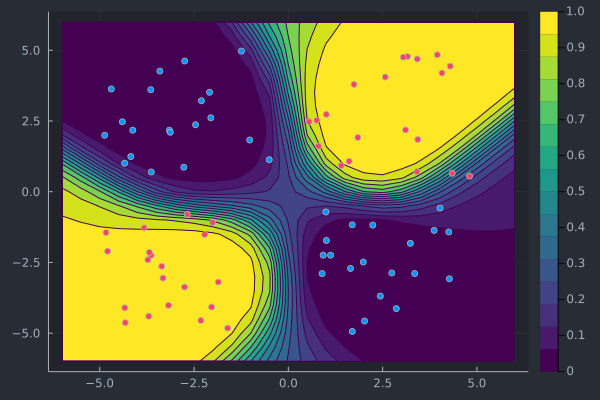
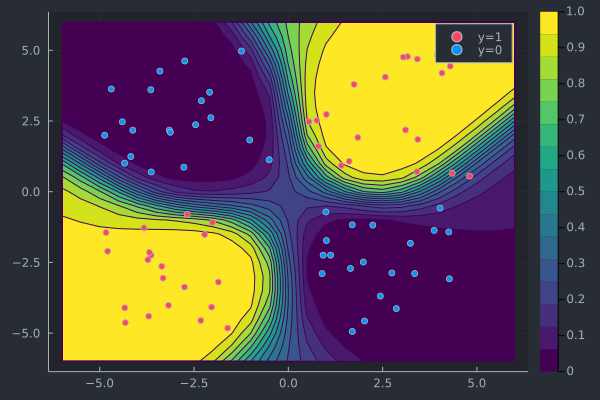
polished the models tutorial

Changed region(s): [[0.72, 0.06, 0.87, 0.18]]

diff --git a/docs/src/tutorials/models.md b/docs/src/tutorials/models.md
@@ -68,19 +68,20 @@ xs = [xt1s; xt0s]
 X = hcat(xs...) # bring into tabular format
 ts = [ones(2*M); zeros(2*M)]
 
-# Plot data points.
-function plot_data()
-    # x1 = map(e -> e[1], xt1s)
-    # y1 = map(e -> e[2], xt1s)
-    # x2 = map(e -> e[1], xt0s)
-    # y2 = map(e -> e[2], xt0s)
+plt = plot()
 
-    # Plots.scatter(x1,y1, color=1, clim = (0,1), label="y=1")
-    # Plots.scatter!(x2,y2, color=0, clim = (0,1), label="y=0")
-    Plots.scatter(X[1,:],X[2,:],color=Int.(ts), clim = (0,1), legend=false)
+# Plot data points.
+function plot_data!(plt)
+    x1 = map(e -> e[1], xt1s)
+    y1 = map(e -> e[2], xt1s)
+    x2 = map(e -> e[1], xt0s)
+    y2 = map(e -> e[2], xt0s)
+
+    Plots.scatter!(plt, x1,y1, color=1, clim = (0,1), label="y=1")
+    Plots.scatter!(plt, x2,y2, color=0, clim = (0,1), label="y=0")
 end
 
-plt = plot_data();
+plt = plot_data!(plt);
 savefig(plt, "www/models_samples.png")
 ```
 
@@ -154,7 +155,7 @@ y_range = collect(range(-6,stop=6,length=25))
 Z = [σ.(nn([x, y]))[1] for x=x_range, y=y_range]
 function plot_contour(;clegend=true, title="")
     plt = contourf(x_range, y_range, Z, color=:viridis, legend=clegend, title=title)
-    scatter!(plt,X[1,:],X[2,:],color=Int.(ts), clim = (0,1), legend=false)
+    plot_data!(plt)
 end
 plt = plot_contour();
 savefig(plt, "www/models_contour.png")
@@ -228,7 +229,7 @@ gif(anim, "www/models_generic_recourse.gif", fps=5);
 
 In the context of Bayesian classifiers the `GreedyGenerator` can be used since minimizing the predictive uncertainty acts as a proxy for *realism* and *unambiquity*. In other words, if we have a model that incorporates uncertainty, we can generate realistic counterfactuals without the need for a complexity penalty. 
 
-One efficient way to produce uncertainty estimates in the context of deep learning is to simply use an ensemble of artificial neural networks. To this end we can use the `build_model` function from above repeatedly to compose an ensemble of $K$ neural networks:
+One efficient way to produce uncertainty estimates in the context of deep learning is to simply use an ensemble of artificial neural networks (also referred to as *deep ensemble*). To this end we can use the `build_model` function from above repeatedly to compose an ensemble of $K$ neural networks:
 
 
 ```julia
@@ -277,7 +278,7 @@ end
     forward_nn (generic function with 1 method)
 
 
-This wrapper function is used as a subrouting in `forward` below. That function returns a on object of type `FittedEnsemble <: Models.FittedModel` for which we extend the `logits` and `probs` functions.
+This wrapper function is used as a subroutine in `forward` below, which returns are an ensemble of fitted neural networks. The animation below shows the training loss for each of them. As we can see the different networks produce different outcomes: their parameters were initialized at different random values. This is how we introduce stochasticity and hence incorporate uncertainty around our estimates.
 
 
 ```julia
@@ -303,12 +304,8 @@ function forward(𝓜, data, opt; loss_type=:logitbinarycrossentropy, plot_loss=
     end
 
     return 𝓜, anim
-end
+end;
 ```
-
-
-    forward (generic function with 1 method)
-
 
 
 ```julia
@@ -318,39 +315,38 @@ gif(anim, "www/models_ensemble_loss.gif", fps=50);
 
 ![](www/models_ensemble_loss.gif)
 
+Once again it is straight-forward to make the model compatible with the package. Note that for an ensemble model the predicted logits and probabilities are just averages over predictions produced by all $K$ models.
+
 
 ```julia
+# Step 1)
 struct FittedEnsemble <: Models.FittedModel
     𝓜::AbstractArray
 end
-# logits(𝑴::FittedEnsemble, X::AbstractArray) = mean(Flux.stack([nn(X) for nn in 𝑴.𝓜],1))
-# probs(𝑴::FittedEnsemble, X::AbstractArray) = mean(Flux.stack([σ.(nn(X)) for nn in 𝑴.𝓜],1))
+
+# Step 2)
 logits(𝑴::FittedEnsemble, X::AbstractArray) = mean(Flux.flatten(Flux.stack([nn(X) for nn in 𝑴.𝓜],1)),dims=1)
 probs(𝑴::FittedEnsemble, X::AbstractArray) = mean(Flux.flatten(Flux.stack([σ.(nn(X)) for nn in 𝑴.𝓜],1)),dims=1)
 
-```
-
-
-    probs (generic function with 4 methods)
-
-
-
-```julia
 𝑴=FittedEnsemble(𝓜);
 ```
+
+Again we plot the predicted probabilities in the feature domain. As expected the ensemble is more *conservative* because it incorporates uncertainty: the predicted probabilities splash out more than before, especially in regions that are not populated by samples.
 
 
 ```julia
 Z = [probs(𝑴,[x, y])[1] for x=x_range, y=y_range]
 function plot_contour(;clegend=true, title="")
     plt = contourf(x_range, y_range, Z, color=:viridis, legend=clegend, title=title)
-    scatter!(plt,X[1,:],X[2,:],color=Int.(ts), clim = (0,1), legend=false)
+    plot_data!(plt)
 end
 plt = plot_contour();
 savefig(plt, "www/models_ensemble_contour.png")
 ```
 
 ![](www/models_ensemble_contour.png)
+
+Finally, we use the `GreedyGenerator` for the counterfactual search. For the same desired threshold $\gamma$ as before, the counterfactual ends up somewhat closer to a cluster of original samples. In other words we end up providing more realisitic albeit likely more costly recourse.
 
 
 ```julia
@@ -362,7 +358,7 @@ recourse = generate_recourse(generator, x̅, 𝑴, target, γ); # generate recou
 ```julia
 T = size(recourse.path)[1]
 ŷ = probs(recourse.𝑴, recourse.path')
-p1 = plot_contour(;clegend=false, title="Neural network")
+p1 = plot_contour(;clegend=false, title="Deep Ensemble")
 t = 1
 anim = @animate for t in 1:T
     scatter!(p1, [recourse.path[t,1]], [recourse.path[t,2]], ms=5, color=Int(y̅))
